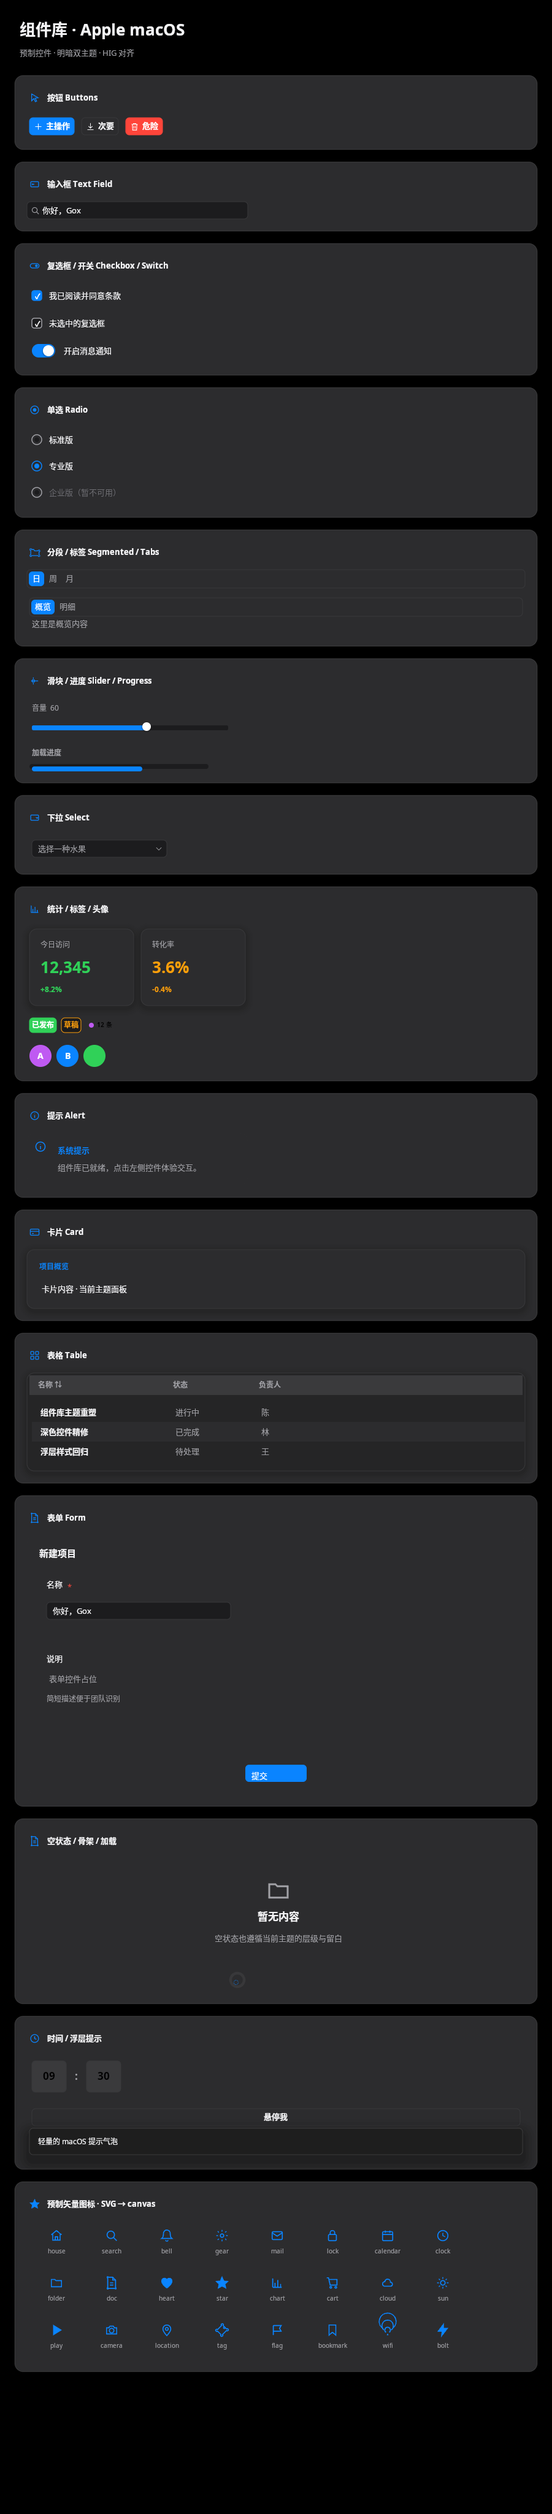
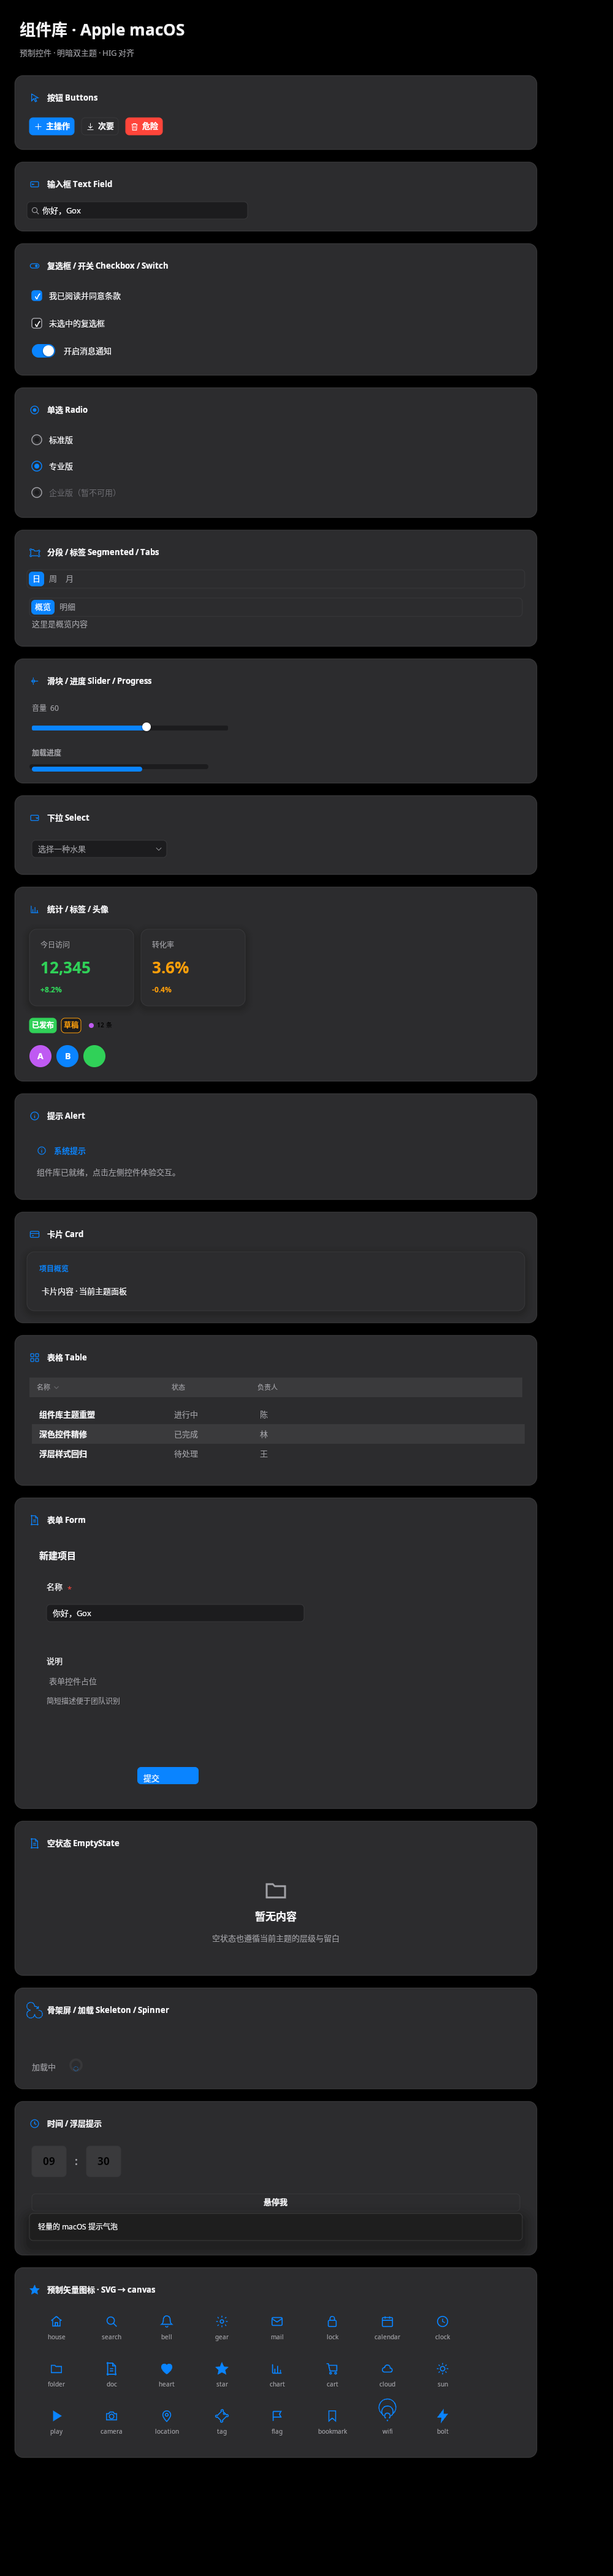
fix(widgets): 重做表格原生观感并修正表单/空状态/Alert 布局

Changed region(s): [[0.0, 0.0, 0.9956, 0.9678]]

diff --git a/widgets/table.go b/widgets/table.go
@@ -106,10 +106,11 @@ func Table(props gxscene.Props) *gxscene.Instance {
 			attr("gx-row-index", strconv.Itoa(index)),
 			attr("flex-direction", "row"), attr("align-items", "center"),
 			attr("height", fmt.Sprintf("%g", rowHeight)),
-			attr("border-bottom", ThemeBorder), attr("border-width", "1"),
+			attr("border-bottom", ThemeBorder2), attr("border-width", "1"),
 		}
 		if striped() && index%2 == 1 {
-			ops = append(ops, attr("bg", ThemePanel)) // 斑马纹：交替行抬起一层
+			// 斑马纹：极淡分层（tertiarySystemBackground），不抢主文字层级。
+			ops = append(ops, attr("bg", ThemeFill))
 		}
 		// 行点击 → on-select（列单元格点击会冒泡到此；事件名相同按命中就近派发）。
 		ops = append(ops, gxscene.Op{Code: gxscene.OpEvent, Key: "onClick", Slot: 0})
@@ -149,15 +150,16 @@ func Table(props gxscene.Props) *gxscene.Instance {
 	ops := []gxscene.Op{
 		el("div"), attr("gx-role", "table"),
 		attr("flex-direction", "column"),
-		// 整表作为一张卡片：细描边 + 圆角 + 柔和阴影，与页面底拉开层次。
-		attr("border", ThemeBorder), attr("border-width", "1"),
-		attr("border-radius", RadiusCard), attr("box-shadow", ShadowCard),
+		// macOS NSTableView：表格本身只是一张浅底平面，不额外套卡片阴影/描边
+		// （外层 group 已提供卡片层次，避免"双层卡片"）。仅用一圈 hairline
+		// 收边 + 圆角，贴近原生列表视图的克制观感。
+		attr("bg", ThemePanel), attr("border-radius", RadiusSmall),
 	}
 	if w := width(); w != "" {
 		ops = append(ops, attr("width", w))
 	}
 	ops = append(ops,
-		// 表头：填充色与数据行形成层次；整表由外层容器统一描边+圆角。
+		// 表头：极淡底层 + 细分隔线，11px 次级色非粗体（macOS 列标题规范）。
 		el("div"), attr("gx-role", "table-head"),
 		attr("flex-direction", "row"), attr("align-items", "center"),
 		attr("height", fmt.Sprintf("%g", rowHeight)),
@@ -252,16 +254,17 @@ func tableHeadCell(col TableColumn, onSort gxscene.Handler) *gxscene.Instance {
 	}
 	ops := []gxscene.Op{
 		el("div"), attr("gx-role", "table-head-cell"),
-		attr("width", w), attr("padding", "10"),
-		attr("flex-direction", "row"), attr("align-items", "center"),
-		attr("font-size", FontCallout), attr("weight", "bold"), attr("color", ThemeMuted),
+		attr("width", w), attr("padding", "8"),
+		attr("flex-direction", "row"), attr("align-items", "center"), attr("gap", "4"),
+		attr("font-size", FontSubheadline), attr("color", ThemeMuted),
 		attr("text-align", align),
 		gxscene.Op{Code: gxscene.OpChildText, Arg: col.Title},
 	}
 	if col.Sortable {
-		// 排序标记直接拼在标题后（避免独立 flex item 被折行），整格同色。
+		// 排序标记用预制矢量 chevron 图标（替代字符 ⇅），次级色跟随主题。
+		// slot 0 = onClick Handler，slot 1 = 图标 canvas 子树。
 		ops = append(ops,
-			gxscene.Op{Code: gxscene.OpChildText, Arg: " ⇅"},
+			gxscene.Op{Code: gxscene.OpComp, Arg: "SortIcon", Slot: 1},
 			gxscene.Op{Code: gxscene.OpEvent, Key: "onClick", Slot: 0},
 		)
 	}
@@ -269,15 +272,18 @@ func tableHeadCell(col TableColumn, onSort gxscene.Handler) *gxscene.Instance {
 	n := 0
 	getters := []func() any{}
 	if col.Sortable {
-		n = 1
-		getters = append(getters, func() any {
-			key := col.Key
-			return gxscene.Handler(func(ctx gxscene.EventContext) {
-				if onSort != nil {
-					emitValue(onSort, ctx, key)
-				}
-			})
-		})
+		n = 2
+		getters = append(getters,
+			func() any {
+				key := col.Key
+				return gxscene.Handler(func(ctx gxscene.EventContext) {
+					if onSort != nil {
+						emitValue(onSort, ctx, key)
+					}
+				})
+			},
+			func() any { return iconNode("chevron-down", 12, "faint") },
+		)
 	}
 	return gxscene.Render(gxscene.Template{Ops: ops, N: n}, getters...)
 }
@@ -298,7 +304,7 @@ func tableCell(text string, col TableColumn, colIndex int) *gxscene.Instance {
 	}
 	ops := []gxscene.Op{
 		el("div"), attr("gx-role", "table-cell"),
-		attr("width", w), attr("padding", "10"),
+		attr("width", w), attr("padding", "8"),
 		attr("font-size", FontBody), attr("weight", weight), attr("color", textColor),
 		attr("text-align", align),
 		gxscene.Op{Code: gxscene.OpChildText, Arg: text}, closeEl(),

diff --git a/examples/widget-showcase/main.go b/examples/widget-showcase/main.go
@@ -21,7 +21,7 @@ import (
 func init() { runtime.LockOSThread() }
 
 const W = 900
-const H = 4100
+const H = 4400
 
 func toAny(kids ...*gxscene.Instance) []any {
 	out := make([]any, len(kids))
@@ -248,12 +248,14 @@ func buildTree() *gxscene.Instance {
 	})
 
 	formInput := widgets.Input(gxscene.Props{
-		"value": func() any { return text() }, "placeholder": "项目名称", "width": "300",
+		"value": func() any { return text() }, "placeholder": "项目名称", "width": "420",
 	})
+	// 表单卡片收窄到内容宽度：字段撑满、按钮居中于同一内容列，
+	// 避免"字段在左、按钮飘在卡片正中"的轴线割裂。
 	form := widgets.Form(gxscene.Props{
-		"title": func() any { return "新建项目" }, "width": str(W - 88),
+		"title": func() any { return "新建项目" }, "width": "460",
 		"children": func() any {
-			return col(str(W-96), "12",
+			return col("428", "12",
 				widgets.FormItem(gxscene.Props{
 					"label": "名称", "name": "name", "required": true,
 					"children": func() any { return formInput },
@@ -267,17 +269,21 @@ func buildTree() *gxscene.Instance {
 		"onSubmit": widgets.BindSubmit(func() {}),
 	})
 
-	feedbackRow := col(str(W-88), "12",
-		widgets.EmptyState(gxscene.Props{
-			"icon": "folder", "title": func() any { return "暂无内容" },
-			"description": func() any { return "空状态也遵循当前主题的层级与留白" },
-			"width":       str(W - 88),
-		}),
-		row("12",
-			widgets.Skeleton(gxscene.Props{"width": "180", "height": "14"}),
-			widgets.Skeleton(gxscene.Props{"width": "120", "height": "14"}),
-			widgets.Spinner(gxscene.Props{"size": 22}),
-		),
+	// EmptyState 单独成区：不再把 Spinner 叠在同一列造成"图标下多出个圈"的错觉。
+	emptyState := widgets.EmptyState(gxscene.Props{
+		"icon": "folder", "title": func() any { return "暂无内容" },
+		"description": func() any { return "空状态也遵循当前主题的层级与留白" },
+		"width":       str(W - 88),
+	})
+	// 骨架屏与加载指示器独立成区，各自有明确语义标签。
+	skeletonRow := row("16",
+		widgets.Skeleton(gxscene.Props{"width": "180", "height": "14"}),
+		widgets.Skeleton(gxscene.Props{"width": "120", "height": "14"}),
+		widgets.Skeleton(gxscene.Props{"width": "80", "height": "28", "radius": widgets.RadiusControl}),
+	)
+	spinnerRow := row("20",
+		label("加载中", widgets.FontBody, "muted"),
+		widgets.Spinner(gxscene.Props{"size": 18}),
 	)
 
 	timePick := widgets.TimePicker(gxscene.Props{
@@ -312,7 +318,8 @@ func buildTree() *gxscene.Instance {
 				group(str(W-48), str(W-48), sectionTitleIcon("卡片 Card", "card"), card),
 				group(str(W-48), str(W-48), sectionTitleIcon("表格 Table", "grid"), table),
 				group(str(W-48), str(W-48), sectionTitleIcon("表单 Form", "doc"), form),
-				group(str(W-48), str(W-48), sectionTitleIcon("空状态 / 骨架 / 加载", "doc"), feedbackRow),
+				group(str(W-48), str(W-48), sectionTitleIcon("空状态 EmptyState", "doc"), emptyState),
+				group(str(W-48), str(W-48), sectionTitleIcon("骨架屏 / 加载 Skeleton / Spinner", "reload"), skeletonRow, spinnerRow),
 				group(str(W-48), str(W-48), sectionTitleIcon("时间 / 浮层提示", "clock"), timePick, tooltip),
 				iconGallery(str(W-48)),
 			)

diff --git a/widgets/feedback.go b/widgets/feedback.go
@@ -35,26 +35,28 @@ func Alert(props gxscene.Props) *gxscene.Instance {
 	ops := []gxscene.Op{
 		el("div"), attr("gx-role", "alert"),
 		attr("bg", ThemePanel), attr("border-radius", RadiusCard),
-		attr("padding", "12"), attr("flex-direction", "row"), attr("gap", "10"),
-		attr("align-items", "flex-start"),
+		attr("padding", "12"), attr("flex-direction", "column"), attr("gap", "6"),
 	}
 	if w := width(); w != "" {
 		ops = append(ops, attr("width", w))
 	}
 	ops = append(ops,
-		// 语义矢量图标（canvas 子树）
+		// 标题行：语义矢量图标 + 标题，垂直居中对齐（macOS 通知/告警样式）。
+		// 图标与标题共用一条 align-items=center 的横轴，避免 canvas 节点按
+		// flex-start 顶部对齐时比标题文字高出一截的错位。
+		el("div"), attr("flex-direction", "row"),
+		attr("align-items", "center"), attr("gap", "8"),
 		gxscene.Op{Code: gxscene.OpComp, Arg: "AlertIcon", Slot: iconSlot},
-		// 文本列
-		el("div"), attr("flex-direction", "column"), attr("gap", "3"),
 		el("span"), attr("font-size", FontHeadline), attr("weight", "bold"),
 		attr("color", accent), dynChild(titleSlot), closeEl(),
+		closeEl(),
+		// 正文：与标题行同一左边缘起排，保持阅读基线一致。
 		el("span"), attr("font-size", FontBody), attr("color", ThemeMuted),
 		dynChild(msgSlot), closeEl(),
 		closeEl(),
-		closeEl(),
 	)
 	return gxscene.Render(gxscene.Template{Ops: ops, N: nSlots},
-		func() any { return iconNode(iconName, 20, toneName) },
+		func() any { return iconNode(iconName, 16, toneName) },
 		func() any { return title() },
 		func() any { return message() },
 	)

diff --git a/widgets/component_icons_test.go b/widgets/component_icons_test.go
@@ -5,6 +5,7 @@ import (
 
 	"github.com/robertpanvip/gox/runtime/canvas"
 	gxscene "github.com/robertpanvip/gox/runtime/scene"
+	"github.com/robertpanvip/gox/runtime/signal"
 )
 
 // hasVectorIcon 报告节点子树里是否存在带矢量绘制指令的 canvas 节点。
@@ -83,6 +84,28 @@ func TestButtonOptionalIcon(t *testing.T) {
 		if !hasVectorIcon(b.Root()) {
 			t.Errorf("variant=%q 的带图标 Button 应渲染矢量图标", v)
 		}
+	}
+}
+
+func TestTableSortUsesVectorChevron(t *testing.T) {
+	props, _ := tableFixture() // 首列 Sortable=true
+	tbl := Table(props)
+	tbl.BindReactive(signal.Effect)
+	heads := findAllByRole(tbl.Root(), "table-head-cell")
+	if len(heads) == 0 {
+		t.Fatal("无表头单元格")
+	}
+	// 可排序列头应含矢量 chevron 图标，且不再用字符 ⇅ 凑数。
+	if !hasVectorIcon(heads[0]) {
+		t.Error("可排序列头应含矢量 chevron 图标")
+	}
+	text := gxscene.TextBackend{}.Paint(heads[0])
+	if containsStr(text, "⇅") {
+		t.Errorf("排序标记不应再是字符 ⇅: %q", text)
+	}
+	// 排序回传仍可用（图标插槽没有顶掉 onClick）。
+	if heads[0].Handler("onClick") == nil {
+		t.Error("加图标后列头排序点击应仍可用")
 	}
 }
 
